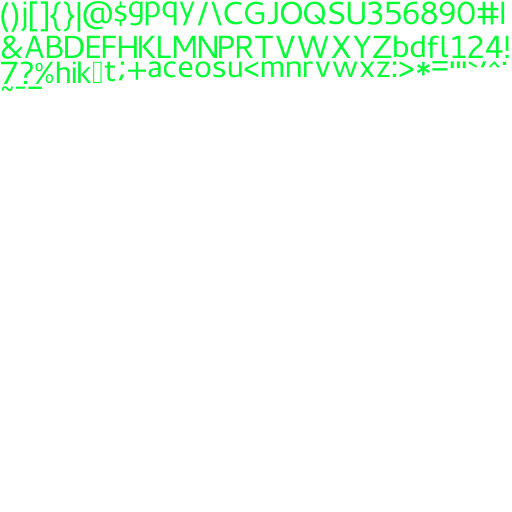
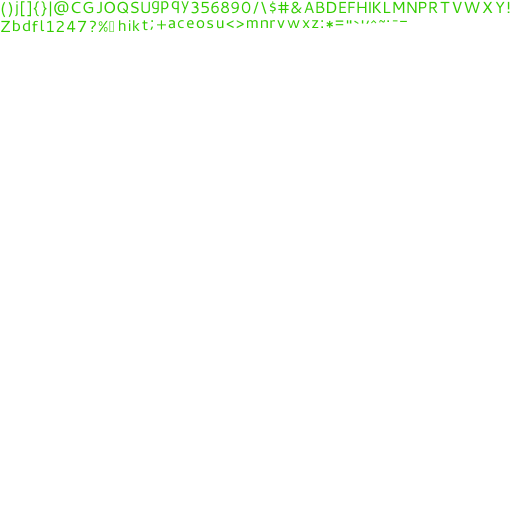
sound setting bug fix + comments + "+10 Points" bei anspringen richtiger Lösung und vollen Leben

Changed region(s): [[0.0, 0.0, 1.0, 0.1875]]

diff --git a/core/src/de/mi/ur/gameLogic/GameQuestion.java b/core/src/de/mi/ur/gameLogic/GameQuestion.java
@@ -1,6 +1,6 @@
 package de.mi.ur.gameLogic;
 
-import com.badlogic.gdx.Gdx;
+import com.badlogic.gdx.graphics.Color;
 import com.badlogic.gdx.graphics.OrthographicCamera;
 import com.badlogic.gdx.graphics.g2d.BitmapFont;
 import com.badlogic.gdx.graphics.g2d.SpriteBatch;
@@ -30,6 +30,11 @@ public class GameQuestion {
     private static ArrayList<String> possAnswers;
 
     private BitmapFont toSolveBitmap;
+
+    private BitmapFont number1;
+    private BitmapFont number2;
+    private BitmapFont number3;
+    private BitmapFont number4;
 
     private BitmapFont possAnswer1Bitmap;
     private BitmapFont possAnswer2Bitmap;
@@ -66,19 +71,31 @@ public class GameQuestion {
         possAnswer4 = "";
 
 
-        toSolveBitmap = new BitmapFont(Gdx.files.internal("good_times4question.fnt"));
+        toSolveBitmap = new BitmapFont();
         toSolveBitmap.setUseIntegerPositions(false);
 
-        possAnswer1Bitmap = new BitmapFont(Gdx.files.internal("cantarrell4question.fnt"));
+        number1 = new BitmapFont();
+        number1.setUseIntegerPositions(false);
+
+        number2 = new BitmapFont();
+        number2.setUseIntegerPositions(false);
+
+        number3 = new BitmapFont();
+        number3.setUseIntegerPositions(false);
+
+        number4 = new BitmapFont();
+        number4.setUseIntegerPositions(false);
+
+        possAnswer1Bitmap = new BitmapFont();
         possAnswer1Bitmap.setUseIntegerPositions(false);
 
-        possAnswer2Bitmap = new BitmapFont(Gdx.files.internal("cantarrell4question.fnt"));
+        possAnswer2Bitmap = new BitmapFont();
         possAnswer2Bitmap.setUseIntegerPositions(false);
 
-        possAnswer3Bitmap = new BitmapFont(Gdx.files.internal("cantarrell4question.fnt"));
+        possAnswer3Bitmap = new BitmapFont();
         possAnswer3Bitmap.setUseIntegerPositions(false);
 
-        possAnswer4Bitmap = new BitmapFont(Gdx.files.internal("cantarrell4question.fnt"));
+        possAnswer4Bitmap = new BitmapFont();
         possAnswer4Bitmap.setUseIntegerPositions(false);
     }
 
@@ -163,17 +180,37 @@ public class GameQuestion {
     public void drawTasks(SpriteBatch batch, OrthographicCamera cam) {
 
         toSolveBitmap.draw(batch, toSolve, cam.position.x + ConstantsGame.QUESTION_TOSOLVE_OFFSET, cam.position.y + ConstantsGame.QUESTION_OFFSET_Y);
+        toSolveBitmap.setColor(Color.RED);
+
+        number1.draw(batch, "1:", cam.position.x + ConstantsGame.QUESTION_POSSANS_1_OFFSET, cam.position.y + ConstantsGame.QUESTION_OFFSET_Y);
+        number1.setColor(Color.RED);
+        possAnswer1Bitmap.draw(batch, "   " + possAnswer1, cam.position.x + ConstantsGame.QUESTION_POSSANS_1_OFFSET, cam.position.y + ConstantsGame.QUESTION_OFFSET_Y);
+        possAnswer1Bitmap.setColor(Color.BLACK);
+        number2.draw(batch, "2:", cam.position.x, cam.position.y + ConstantsGame.QUESTION_OFFSET_Y);
+        number2.setColor(Color.RED);
+        possAnswer2Bitmap.draw(batch, "   " + possAnswer2, cam.position.x, cam.position.y + ConstantsGame.QUESTION_OFFSET_Y);
+        possAnswer2Bitmap.setColor(Color.BLACK);
+        number3.draw(batch, "3:", cam.position.x + ConstantsGame.QUESTION_POSSANS_3_OFFSET, cam.position.y + ConstantsGame.QUESTION_OFFSET_Y);
+        number3.setColor(Color.RED);
+        possAnswer3Bitmap.draw(batch, "   " + possAnswer3, cam.position.x + ConstantsGame.QUESTION_POSSANS_3_OFFSET, cam.position.y + ConstantsGame.QUESTION_OFFSET_Y);
+        possAnswer3Bitmap.setColor(Color.BLACK);
+        number4.draw(batch, "4:", cam.position.x + ConstantsGame.QUESTION_POSSANS_4_OFFSET, cam.position.y + ConstantsGame.QUESTION_OFFSET_Y);
+        number4.setColor(Color.RED);
+        possAnswer4Bitmap.setColor(Color.BLACK);
+        possAnswer4Bitmap.draw(batch, "   " + possAnswer4, cam.position.x + ConstantsGame.QUESTION_POSSANS_4_OFFSET, cam.position.y + ConstantsGame.QUESTION_OFFSET_Y);
 
 
-        possAnswer1Bitmap.draw(batch, "1:" + possAnswer1, cam.position.x + ConstantsGame.QUESTION_POSSANS_1_OFFSET, cam.position.y + ConstantsGame.QUESTION_OFFSET_Y);
+    }
 
-        possAnswer2Bitmap.draw(batch, "2:" + possAnswer2, cam.position.x, cam.position.y + ConstantsGame.QUESTION_OFFSET_Y);
-
-        possAnswer3Bitmap.draw(batch, "3:" + possAnswer3, cam.position.x + ConstantsGame.QUESTION_POSSANS_3_OFFSET, cam.position.y + ConstantsGame.QUESTION_OFFSET_Y);
-
-        possAnswer4Bitmap.draw(batch, "4:" + possAnswer4, cam.position.x + ConstantsGame.QUESTION_POSSANS_4_OFFSET, cam.position.y + ConstantsGame.QUESTION_OFFSET_Y);
-
-
+    public void dipose() {
+        number1.dispose();
+        possAnswer1Bitmap.dispose();
+        number2.dispose();
+        possAnswer2Bitmap.dispose();
+        number3.dispose();
+        possAnswer3Bitmap.dispose();
+        number4.dispose();
+        possAnswer4Bitmap.dispose();
     }
 
     public boolean isCounted() {

diff --git a/android/src/de/mi/ur/Activities/GameMainActivity.java b/android/src/de/mi/ur/Activities/GameMainActivity.java
@@ -103,9 +103,9 @@ public class GameMainActivity extends AppCompatActivity implements View.OnClickL
             case R.id.game_start_button:
                 i = new Intent(GameMainActivity.this, AndroidLauncher.class);
                 i.putExtra(Constants.CURRENT_WEATHER, weatherManager.getCurrentWeather());
-                i.putExtra(Constants.BACKGROUND_MUSIC,getBackgroundMusic());
-                i.putExtra(Constants.SOUND_EFFECTS,getSoundEffects());
-                System.out.println("GameMainActivity: BackgorundMusik: " + getBackgroundMusic() + " SoundEffects: "+ getSoundEffects());
+                i.putExtra(Constants.BACKGROUND_MUSIC, getBackgroundMusic());
+                i.putExtra(Constants.SOUND_EFFECTS, getSoundEffects());
+                System.out.println("GameMainActivity: BackgorundMusik: " + getBackgroundMusic() + " SoundEffects: " + getSoundEffects());
                 break;
             case R.id.game_update_weather_button:
                 if (ContextCompat.checkSelfPermission(this, Manifest.permission.ACCESS_FINE_LOCATION) == PackageManager.PERMISSION_GRANTED) {
@@ -201,12 +201,12 @@ public class GameMainActivity extends AppCompatActivity implements View.OnClickL
         Toast.makeText(this, toastMessage, Toast.LENGTH_LONG).show();
     }
 
-    private boolean getBackgroundMusic(){
-        return  sharedPref.getBoolean("pref_music", true);
+    private boolean getBackgroundMusic() {
+        return sharedPref.getBoolean("pref_music", true);
     }
 
-    private boolean getSoundEffects(){
-        return sharedPref.getBoolean("pref_sound_effects",true);
+    private boolean getSoundEffects() {
+        return sharedPref.getBoolean("pref_sound_effects", true);
     }
 
 

diff --git a/core/src/de/mi/ur/states/PlayState.java b/core/src/de/mi/ur/states/PlayState.java
@@ -83,10 +83,11 @@ public class PlayState extends State {
         music.setLooping(true);
         music.setVolume(0.6f);
 
-        if(dialogListener.getBackgroundMusic()) {
+        if (dialogListener.getBackgroundMusic()) {
             music.play();
         }
         isQuestionMode = false;
+
         this.highscoreListener = gameManager.getHighscoreListener();
 
         nerd = new Nerd(ConstantsGame.NERD_X, ConstantsGame.NERD_Y);
@@ -193,6 +194,7 @@ public class PlayState extends State {
     public void updatePlayState(float dt) {
         updateTimeSum(dt);
         handleInput();
+
         updateGround();
         updateBG();
         nerd.update(dt, ConstantsGame.NERD_GRAVITY_DEFAULT, increaseDifficulty());
@@ -418,7 +420,7 @@ public class PlayState extends State {
                             rank = highscoreListener.checkIfNewHighscore(points);
                             System.out.println("rank is initialised");
                             cam.setToOrtho(false, ConstantsGame.DEFAULT_CAM_WIDTH, ConstantsGame.DEFAULT_CAM_HEIGHT);
-                            if(soundEffects) {
+                            if (soundEffects) {
                                 Score.gameOver.play();
                             }
                             gameManager.set(new GameOverState(gameManager));
@@ -622,6 +624,7 @@ public class PlayState extends State {
             obstacle.dispose();
         }
         score.dispose();
+        gameQuestion.dipose();
 
 
     }

diff --git a/core/src/de/mi/ur/ConstantsGame.java b/core/src/de/mi/ur/ConstantsGame.java
@@ -52,10 +52,10 @@ public class ConstantsGame {
         //Question
         public static final int QUESTION_TOSOLVE_OFFSET = -115;
         public static final int QUESTION_OFFSET_Y = 120;
-        public static final int QUESTION_POSSANS_1_OFFSET = -35;
+        public static final int QUESTION_POSSANS_1_OFFSET = -40;
 
-        public static final int QUESTION_POSSANS_3_OFFSET = 35;
-        public static final int QUESTION_POSSANS_4_OFFSET = 75;
+        public static final int QUESTION_POSSANS_3_OFFSET = 40;
+        public static final int QUESTION_POSSANS_4_OFFSET = 80;
 
         //Array-Positionen für Frage und Antwort
         public static final int QUESTION_POS = 0;
@@ -103,8 +103,6 @@ public class ConstantsGame {
         public static final int MAX_DISTANCE_MEDIUM_LONG = 170;
         public static final int MAX_DISTANCE_MEDIUM_SHORT = 140;
         public static final int MAX_DISTANCE_SHORT = 110;
-
-
 
 
 }

diff --git a/core/src/de/mi/ur/sprites/Nerd.java b/core/src/de/mi/ur/sprites/Nerd.java
@@ -22,19 +22,15 @@ public class Nerd {
     private Sound sound;
 
     private Texture texture;
-    //irgendwie auslagern?? COnstants.
     private Texture ground;
 
 
     private Animation nerdAnimation;
 
-    private Animation jumpAnimation;
-    private Texture nerdJump;
+
 
     public boolean colliding;
 
-
-    //private Texture bird;
 
     public Nerd(int x, int y) {
         texture = new Texture("nerd.png");
@@ -66,7 +62,6 @@ public class Nerd {
 
         if (!colliding) {
             if (position.y > 0) {
-                //nur auf der y-Achse brauchen wir Schwerkraft
                 velocity.add(0, gravity, 0);
             }
         }
@@ -94,7 +89,7 @@ public class Nerd {
 
 
     public void jump() {
-        if(PlayState.soundEffects) {
+        if (PlayState.soundEffects) {
             sound.play(0.5f);
         }
         velocity.y = 650;

diff --git a/android/src/de/mi/ur/AndroidLauncher.java b/android/src/de/mi/ur/AndroidLauncher.java
@@ -26,9 +26,9 @@ public class AndroidLauncher extends AndroidApplication implements MultipleChoic
 		Bundle extras = getIntent().getExtras();
 		if(extras != null){
 			currentWeather = extras.getInt(Constants.CURRENT_WEATHER);
-			backgroundMusic = extras.getBoolean(Constants.BACKGROUND_MUSIC,true);
-			soundEffects = extras.getBoolean(Constants.SOUND_EFFECTS,true);
-			System.out.println("AndroidLaunecher: BackgorundMusik: " + backgroundMusic + " SoundEffects: "+ soundEffects);
+			backgroundMusic = extras.getBoolean(Constants.BACKGROUND_MUSIC, true);
+			soundEffects = extras.getBoolean(Constants.SOUND_EFFECTS, true);
+			System.out.println("AndroidLaunecher: BackgorundMusik: " + backgroundMusic + " SoundEffects: " + soundEffects);
 		}
 		db = new NNCDatabase(this);
 		db.open();

diff --git a/android/src/de/mi/ur/Constants.java b/android/src/de/mi/ur/Constants.java
@@ -76,6 +76,6 @@ public class Constants {
     public static final int MULTIPLE_CHOICE_DIALOG_SECOND_NUMERAL_BASE = 10;
     public static final int MULTIPLE_CHOICE_DIALOG_QUESTION_LENGTH = 6;
     public static final String MULTIPLE_CHOICE_DIALOG_MESSAGE = "Rette dein Leben indem du für die gegebene Zahl im Binärsystem die richtige Entsprechung im Dezimalsystem auswählst.";
-    public static final int DIALOG_SHOW_TIME_IN_SECONDS = 10;
+    public static final int DIALOG_SHOW_TIME_IN_SECONDS = 5;
 
 }
